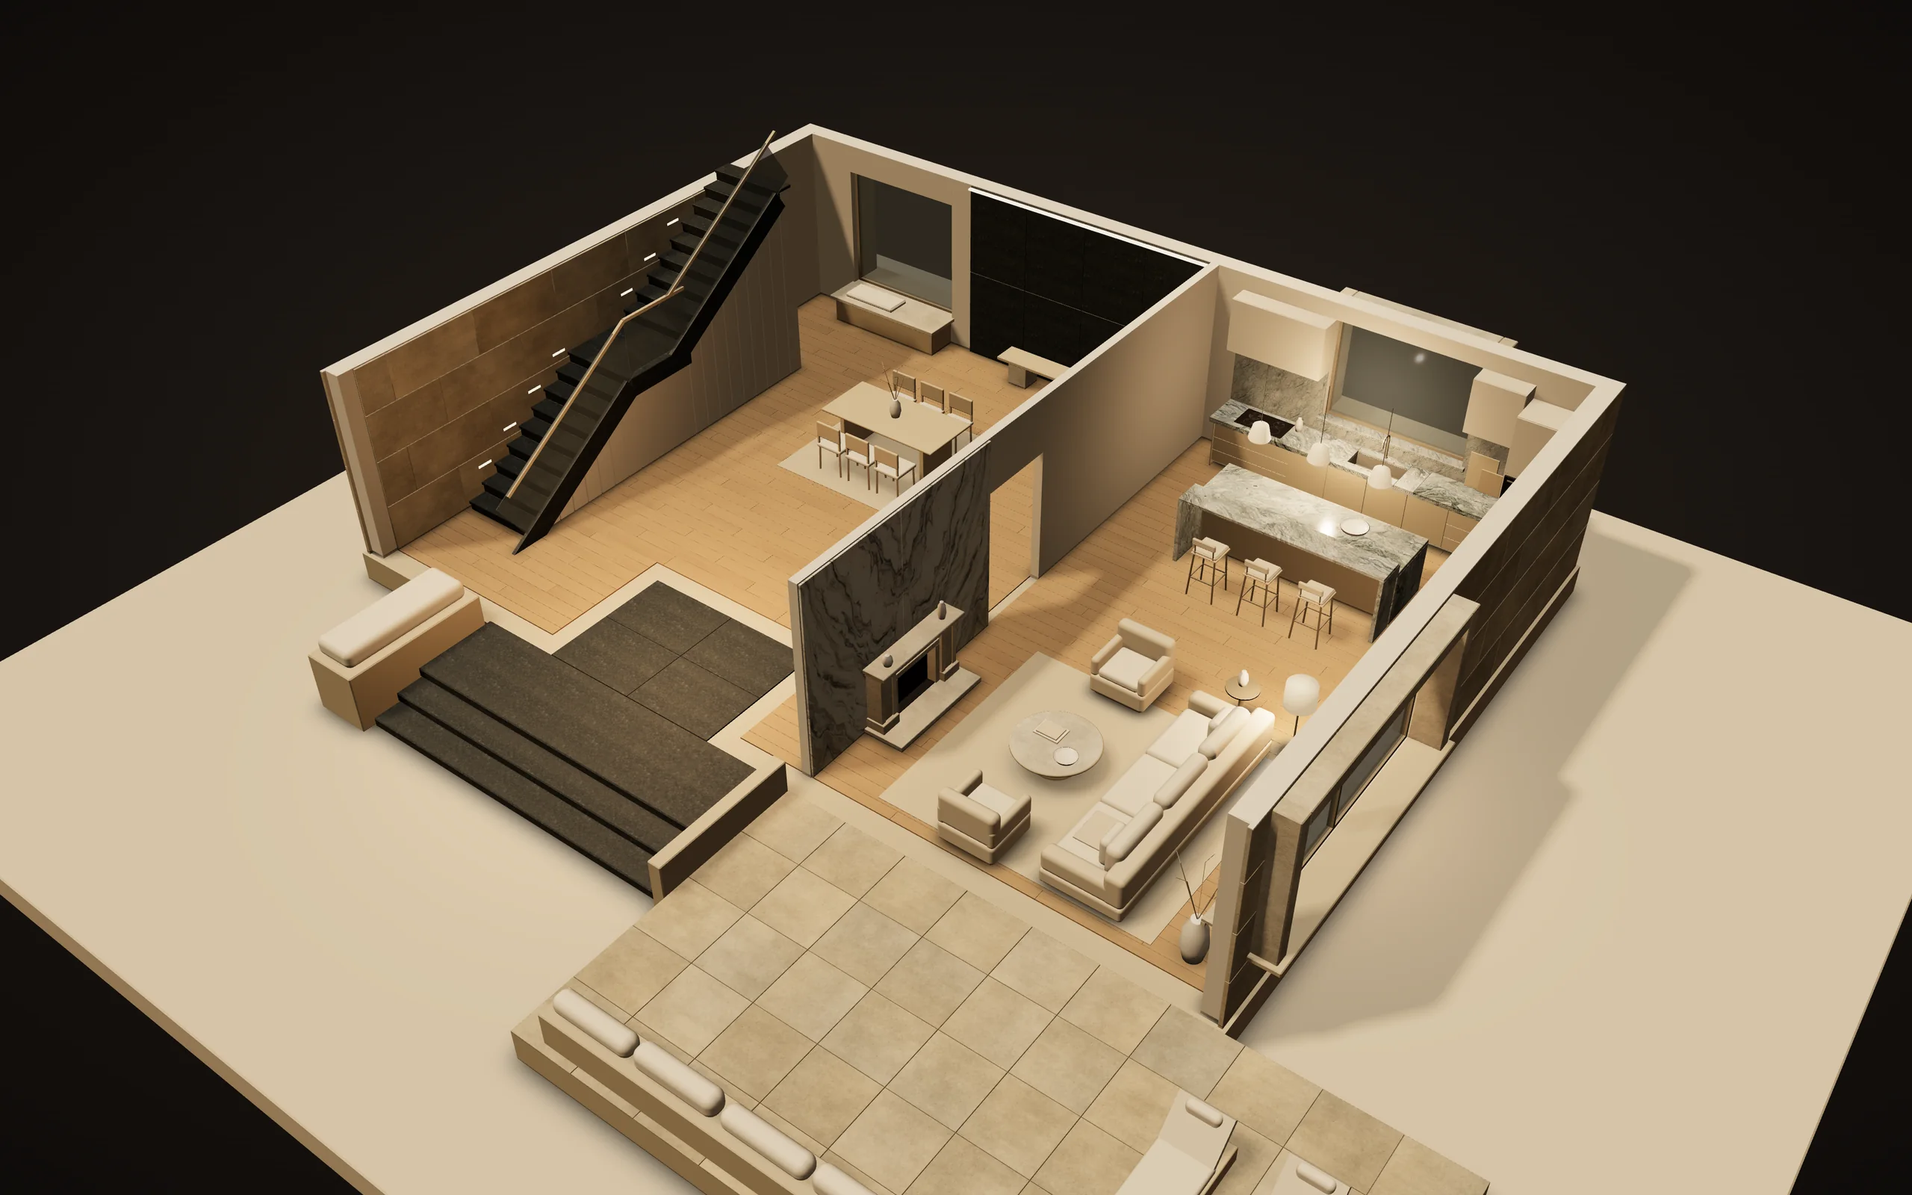
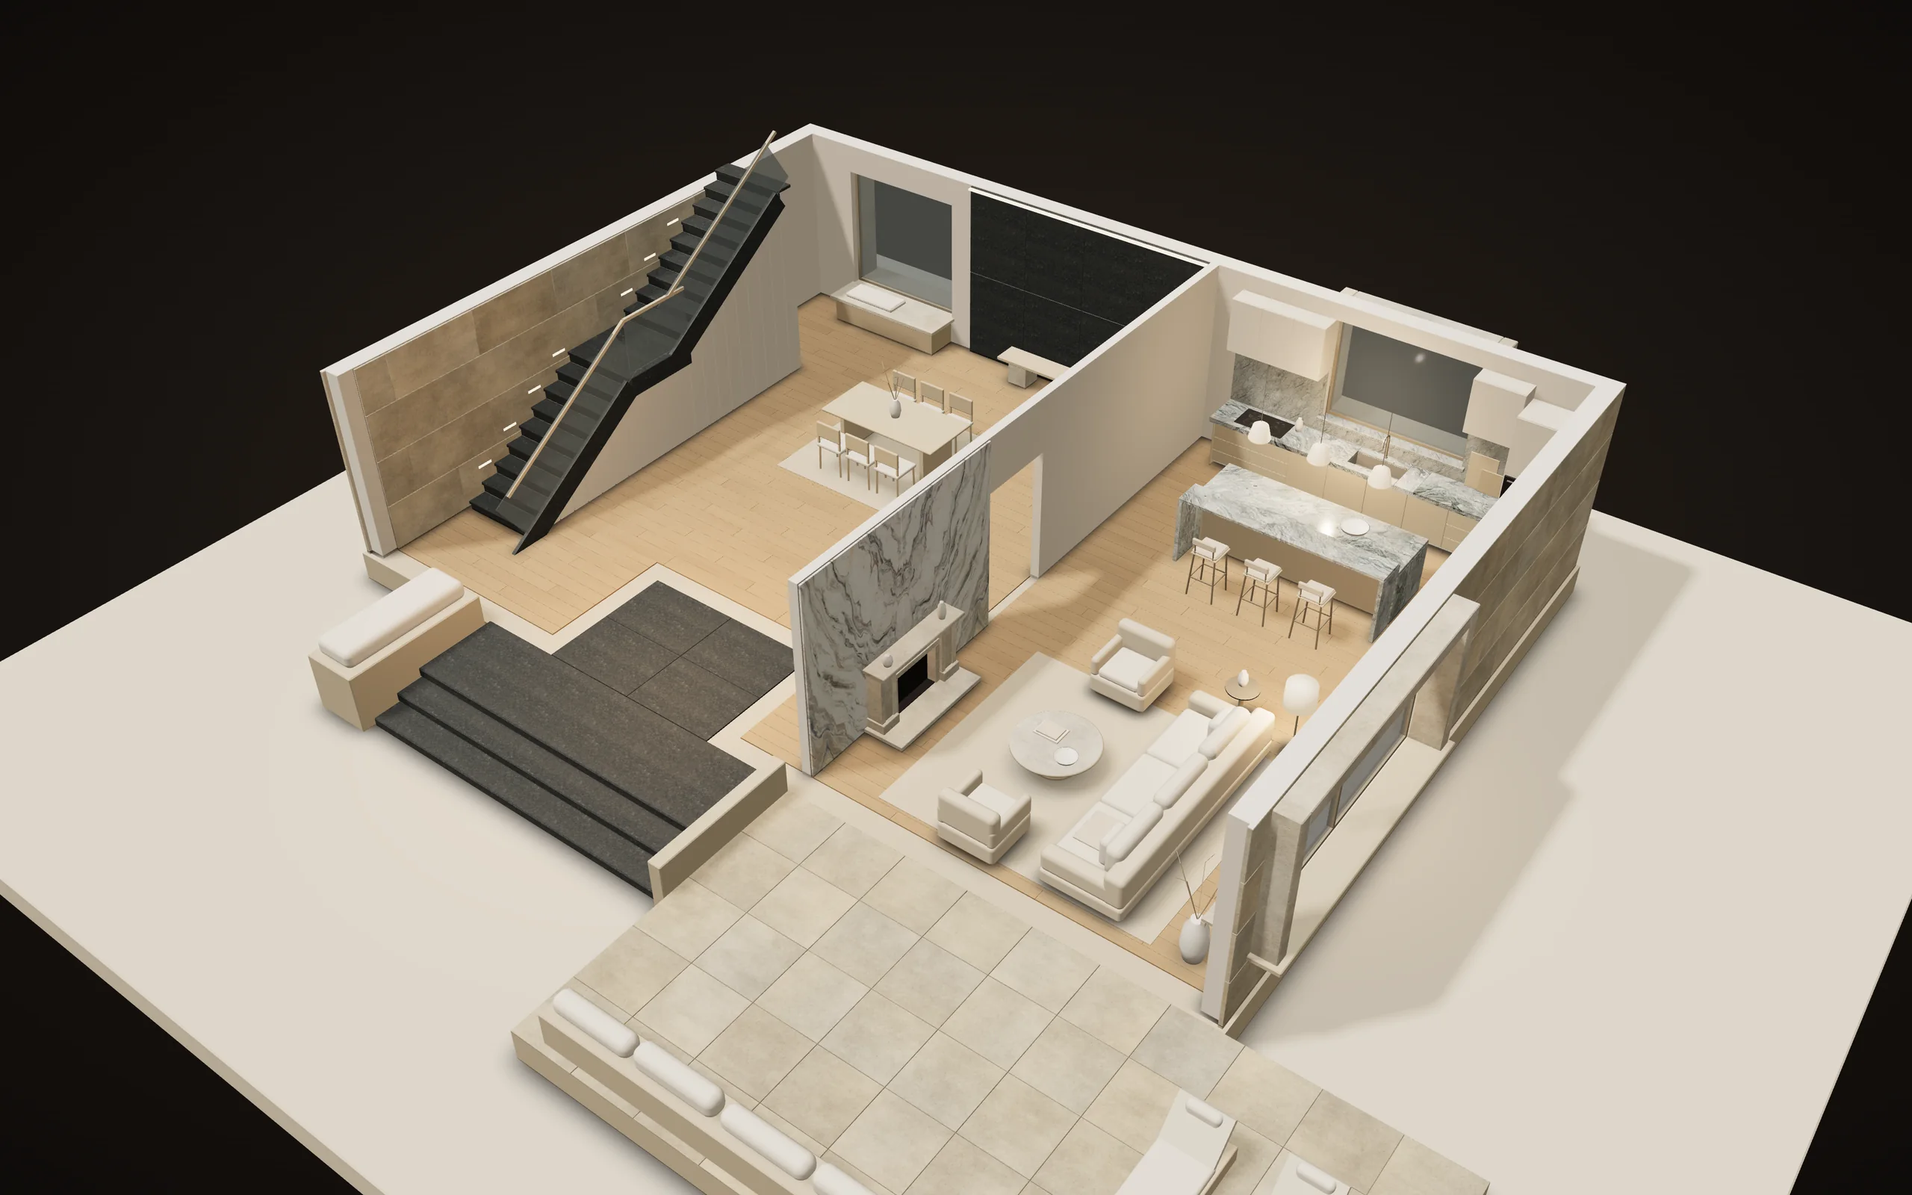
Showroom: two lights to choose, «Утро» (the default) and «Вечер»; the home photo in the morning light (the owner, 2026-11-08)
On a phone the stone «плохо раскрывается» under the orange evening light
and the dark reflections. «Утро»: a near-white key and fill, and the
polished stones reflect a light studio (the backdrop stays the dark room),
so every stone shows its own colour. «Вечер»: the warm light first chosen,
the lamps brighter. A switch in the showroom's header (on a phone and on
narrower screens the two marks alone; on a phone under the header), the
choice remembered in this browser. The home and menu photo re-rendered in
the morning light.

diff --git a/js/showroom/showroom-scene.js b/js/showroom/showroom-scene.js
@@ -4,24 +4,37 @@
 // HouseModel parts (batched: one mesh per group + material + object, see
 // showroom-geometry.js), lays real stone photographs on the pieces cut
 // from them (stone-photos.js), and lights the house as an architectural
-// model photographed in the evening (the owner's choice, 2026-11-08,
-// «Б. Вечер»): a warm dark room round the model, a large soft light above,
-// a warm key with soft shadows, the rooms' own lamps, soft contact shadows
-// on the floors. It exposes what the app needs: hide/show cut-away groups,
+// model in a warm dark room (2026-11-08): a large soft light above, a key
+// with soft shadows, the rooms' own warm lamps, soft contact shadows on the
+// floors. Two lights to choose from (the owner, the same night): «Утро»,
+// the default -- a near-white key and a light studio in the polished stones'
+// reflections, so every stone shows its own colour (under the orange light
+// it «плохо раскрывается» on a phone) -- and «Вечер», the warm light first
+// chosen, with the lamps brighter. setLook(name) switches between them. It exposes what the app needs: hide/show cut-away groups,
 // highlight an object, test whether a marker is hidden behind something,
 // render.
 import * as THREE from '../../vendor/three/three.module.js';
 import { createMaterials, roleTint } from './showroom-materials.js';
 import { hash3, createBatch, pushBox, pushSlab, pushCylinder, pushBeam, toGeometry, pushRoundedBox, pushLathe } from './showroom-geometry.js';
 
-// The room round the model, and its light.
-const LOOK = {
-  bg: { inner: '#2a221c', outer: '#0b0907' },                                   // backdrop: lighter behind the model
-  env: { top: [1.5, 1.3, 1.05], mid: '#4a3f34', low: '#100d0b', fill: 0.7 },   // reflections and fill: a softbox overhead
-  hemi: ['#f3e3ca', '#2a221b', 0.22],
-  key: { color: '#ffdcb0', intensity: 1.55, position: [-8, 22, 10], soft: 9 },
-  exposure: 1.0,
-  lamps: 2.4,                                                                   // the rooms' lamps, brighter than by day
+// The room round the model (the same in both lights), and the two lights.
+const BG = { inner: '#2a221c', outer: '#0b0907' };                              // backdrop: lighter behind the model
+const KEY = { position: [-8, 22, 10], soft: 9 };
+export const LOOKS = {
+  morning: {
+    env: { top: [1.6, 1.56, 1.5], mid: '#9a948b', low: '#2b2724', fill: 0.8 }, // reflections and fill: a softbox overhead, light studio walls
+    hemi: ['#f4f0ea', '#2a2622', 0.12],
+    key: { color: '#fff4ea', intensity: 1.7 },
+    exposure: 1.04,
+    lamps: 1.7,                                                                 // the rooms' lamps
+  },
+  evening: {
+    env: { top: [1.5, 1.3, 1.05], mid: '#4a3f34', low: '#100d0b', fill: 0.7 },  // a warm, dark studio
+    hemi: ['#f3e3ca', '#2a221b', 0.22],
+    key: { color: '#ffdcb0', intensity: 1.55 },
+    exposure: 1.0,
+    lamps: 2.4,                                                                 // brighter than in the morning
+  },
 };
 const WHITE = [1, 1, 1];
 
@@ -31,8 +44,8 @@ function lookBackground() {
   c.width = c.height = 512;
   const g = c.getContext('2d');
   const grad = g.createRadialGradient(256, 230, 20, 256, 256, 400);
-  grad.addColorStop(0, LOOK.bg.inner);
-  grad.addColorStop(1, LOOK.bg.outer);
+  grad.addColorStop(0, BG.inner);
+  grad.addColorStop(1, BG.outer);
   g.fillStyle = grad;
   g.fillRect(0, 0, 512, 512);
   const t = new THREE.CanvasTexture(c);
@@ -42,7 +55,7 @@ function lookBackground() {
 
 // A studio for reflections and fill: a large soft light overhead, softer
 // walls, a dark floor -- no sky, no sun disc.
-function buildEnvironment(renderer) {
+function buildEnvironment(renderer, LOOK) {
   const pmrem = new THREE.PMREMGenerator(renderer);
   const env = new THREE.Scene();
   const c = document.createElement('canvas');
@@ -81,7 +94,9 @@ function uvOffset(x, y, z) {
   return [hash3(y - 5.3, z, x) * 4, hash3(x + 2.9, y, z - 7.1) * 4];
 }
 
-export function createShowroomScene(canvas, { House, Photos, zones = [], onChange }) {
+export function createShowroomScene(canvas, { House, Photos, zones = [], look = 'morning', onChange }) {
+  let current = LOOKS[look] ? look : 'morning';
+  const LOOK = LOOKS[current];
   const renderer = new THREE.WebGLRenderer({ canvas, antialias: true, powerPreference: 'high-performance' });
   renderer.setPixelRatio(Math.min(window.devicePixelRatio || 1, 1.75));
   renderer.toneMapping = THREE.ACESFilmicToneMapping;
@@ -96,32 +111,53 @@ export function createShowroomScene(canvas, { House, Photos, zones = [], onChang
   const scene = new THREE.Scene();
   const background = lookBackground();
   scene.background = background;
-  scene.environment = buildEnvironment(renderer);
+  // Each light's studio is built once, when it is first needed.
+  const environments = new Map([[current, buildEnvironment(renderer, LOOK)]]);
+  scene.environment = environments.get(current);
 
   const materials = createMaterials({
     Photos, anisotropy: renderer.capabilities.getMaxAnisotropy(), onChange,
     upload: texture => renderer.initTexture(texture),
   });
 
-  // Light: a soft fill, a warm key high over the model's front left (short,
-  // soft shadows), and the rooms' own warm lamps.
-  scene.add(new THREE.HemisphereLight(...LOOK.hemi));
+  // Light: a soft fill, a near-white key high over the model's front left
+  // (short, soft shadows; every stone in its own colour), and the rooms'
+  // own warm lamps.
+  const hemi = new THREE.HemisphereLight(...LOOK.hemi);
+  scene.add(hemi);
   const sun = new THREE.DirectionalLight(LOOK.key.color, LOOK.key.intensity);
-  sun.position.set(...LOOK.key.position);
+  sun.position.set(...KEY.position);
   sun.target.position.set(0, 1, 0);
   sun.castShadow = true;
   sun.shadow.mapSize.set(2048, 2048);
   Object.assign(sun.shadow.camera, { left: -17, right: 17, top: 16, bottom: -16, near: 1, far: 70 });
   sun.shadow.bias = -0.0002;
   sun.shadow.normalBias = 0.03;
-  sun.shadow.radius = LOOK.key.soft;
+  sun.shadow.radius = KEY.soft;
   sun.shadow.blurSamples = 16;
   scene.add(sun, sun.target);
-  (House.LIGHTS || []).forEach(l => {
+  const lamps = (House.LIGHTS || []).map(l => {
     const light = new THREE.PointLight(l.color, l.intensity * LOOK.lamps, l.distance, 2);
     light.position.set(...l.position);
+    light.userData.base = l.intensity;
     scene.add(light);
+    return light;
   });
+
+  // The other light: colours and strengths only, so no shader changes and
+  // the shadows stay as they are.
+  function setLook(name) {
+    if (!LOOKS[name] || name === current) return;
+    current = name;
+    const L = LOOKS[name];
+    if (!environments.has(name)) environments.set(name, buildEnvironment(renderer, L));
+    scene.environment = environments.get(name);
+    hemi.color.set(L.hemi[0]); hemi.groundColor.set(L.hemi[1]); hemi.intensity = L.hemi[2];
+    sun.color.set(L.key.color); sun.intensity = L.key.intensity;
+    lamps.forEach(light => { light.intensity = light.userData.base * L.lamps; });
+    renderer.toneMappingExposure = L.exposure;
+    onChange();
+  }
 
   // ---- house -----------------------------------------------------------------
   const groups = new Map();
@@ -455,13 +491,13 @@ export function createShowroomScene(canvas, { House, Photos, zones = [], onChang
     scene.traverse(o => { if (o.geometry) o.geometry.dispose(); });
     materials.dispose();
     background.dispose();
-    scene.environment.dispose();
+    environments.forEach(t => t.dispose());
     renderer.dispose();
   }
 
   refreshOccluders();
   return {
-    renderer, scene, ready, setHiddenGroups, setHighlight, isOccluded, resize, render, dispose,
+    renderer, scene, ready, setHiddenGroups, setHighlight, isOccluded, resize, render, dispose, setLook, look: () => current,
     loadPhotos: materials.loadPhotos, groupNames: () => Array.from(groups.keys()),
   };
 }

diff --git a/css/showroom.css b/css/showroom.css
@@ -93,12 +93,29 @@ button { font: inherit; color: inherit; }
 
 .sr-btn {
   display: inline-flex; align-items: center; justify-content: center; min-height: 40px; padding: 0 16px;
-  border-radius: 999px; font-size: var(--sr-fs-ui); font-weight: 600; text-decoration: none; cursor: pointer;
+  border-radius: 999px; font-size: var(--sr-fs-ui); font-weight: 600; text-decoration: none; cursor: pointer; white-space: nowrap;
   transition: background-color 0.2s, border-color 0.2s, transform 0.16s var(--ease-out);
 }
 .sr-btn-ghost { background: rgba(30, 26, 22, 0.55); border: 1px solid var(--sr-line-strong); color: var(--sr-ink); }
 .sr-btn-ghost[aria-expanded="true"] { background: rgba(30, 26, 22, 0.85); border-color: rgba(241, 236, 228, 0.4); }
 @media (hover: hover) { .sr-btn-ghost:hover { background: rgba(30, 26, 22, 0.85); border-color: rgba(241, 236, 228, 0.4); } }
+/* «Утро | Вечер»: the light the house is shown in (2026-11-08, the owner); on a phone, the two marks alone, under the header. */
+.sr-light { display: inline-flex; align-items: center; gap: 2px; padding: 3px; min-height: 40px; box-sizing: border-box; border-radius: 999px; border: 1px solid var(--sr-line-strong); }
+.sr-light-btn {
+  display: inline-flex; align-items: center; gap: 6px; height: 32px; padding: 0 12px; border: 0; border-radius: 999px;
+  background: transparent; color: var(--sr-muted); font: inherit; font-size: var(--sr-fs-ui); font-weight: 600; cursor: pointer;
+  transition: background-color 0.2s, color 0.2s, transform 0.16s var(--ease-out);
+}
+.sr-light-btn svg { flex: none; width: 15px; height: 15px; fill: none; stroke: currentColor; stroke-width: 1.7; stroke-linecap: round; stroke-linejoin: round; }
+@media (hover: hover) { .sr-light-btn:hover { color: var(--sr-ink); } }
+.sr-light-btn[aria-pressed="true"] { background: var(--sr-ink); color: #1e1a16; }
+.sr-light-btn:active { transform: scale(0.96); }
+/* Narrower screens: the two marks alone (the header keeps one line). */
+@media (max-width: 1099px) {
+  .sr-light-btn { width: 40px; padding: 0; justify-content: center; }
+  .sr-light-label { display: none; }
+}
+@media (min-width: 768px) and (max-width: 899px) { .sr-top-title { display: none; } }
 /* «Связаться»: the phone mark and the word; on a phone, the mark alone. */
 .sr-btn-contact { gap: 8px; }
 .sr-btn-contact svg, .sr-share svg, .sr-contact-icon svg { flex: none; fill: none; stroke: currentColor; stroke-width: 1.6; stroke-linecap: round; stroke-linejoin: round; }
@@ -310,24 +327,24 @@ body.is-interior .sr-caption { transform: translateY(52px); }   /* under «На 
    a rim of light along the top. In Chromium the glass also bends the scene near its edges
    (js/header.js mountGlass puts .glass-bend on <html>); where the visitor asks for less
    transparency, or the browser cannot blur, the panels are solid as before. */
-.sr-caption, .sr-zones, .sr-hint, .sr-card, .sr-panel, .sr-back, .sr-btn-ghost {
+.sr-caption, .sr-zones, .sr-hint, .sr-card, .sr-panel, .sr-back, .sr-btn-ghost, .sr-light {
   background: var(--sr-glass-shine), var(--sr-glass);
   -webkit-backdrop-filter: var(--sr-glass-frost); backdrop-filter: var(--sr-glass-frost);
 }
 .sr-caption, .sr-zones, .sr-card, .sr-panel, .sr-back { box-shadow: var(--sr-glass-rim), var(--sr-shadow); }
-.sr-hint, .sr-btn-ghost { box-shadow: var(--sr-glass-rim); }
+.sr-hint, .sr-btn-ghost, .sr-light { box-shadow: var(--sr-glass-rim); }
 @media (hover: hover) { .sr-btn-ghost:hover { background: var(--sr-glass-shine), var(--sr-panel); } }
 .sr-btn-ghost[aria-expanded="true"] { background: var(--sr-glass-shine), var(--sr-panel); }
 .glass-bend .sr-caption, .glass-bend .sr-zones, .glass-bend .sr-card, .glass-bend .sr-panel,
-.glass-bend .sr-back, .glass-bend .sr-btn-ghost { backdrop-filter: var(--sr-glass-bend); }
+.glass-bend .sr-back, .glass-bend .sr-btn-ghost, .glass-bend .sr-light { backdrop-filter: var(--sr-glass-bend); }
 @media (prefers-reduced-transparency: reduce) {
-  .sr-caption, .sr-zones, .sr-hint, .sr-card, .sr-panel, .sr-back, .sr-btn-ghost,
-  .glass-bend .sr-caption, .glass-bend .sr-zones, .glass-bend .sr-card, .glass-bend .sr-panel, .glass-bend .sr-back, .glass-bend .sr-btn-ghost {
+  .sr-caption, .sr-zones, .sr-hint, .sr-card, .sr-panel, .sr-back, .sr-btn-ghost, .sr-light,
+  .glass-bend .sr-caption, .glass-bend .sr-zones, .glass-bend .sr-card, .glass-bend .sr-panel, .glass-bend .sr-back, .glass-bend .sr-btn-ghost, .glass-bend .sr-light {
     background: var(--sr-panel-solid); -webkit-backdrop-filter: none; backdrop-filter: none;
   }
 }
 @supports not ((-webkit-backdrop-filter: blur(1px)) or (backdrop-filter: blur(1px))) {
-  .sr-caption, .sr-zones, .sr-hint, .sr-card, .sr-panel, .sr-back, .sr-btn-ghost { background: var(--sr-panel); }
+  .sr-caption, .sr-zones, .sr-hint, .sr-card, .sr-panel, .sr-back, .sr-btn-ghost, .sr-light { background: var(--sr-panel); }
 }
 
 @media (max-width: 767px) {
@@ -337,6 +354,9 @@ body.is-interior .sr-caption { transform: translateY(52px); }   /* under «На 
   .sr-btn-contact { width: 40px; padding: 0; }
   .sr-btn-contact .sr-btn-label { display: none; }
   .sr-back { top: 64px; left: 16px; }
+  .sr-light { position: fixed; top: 64px; right: 16px; }
+  .sr-light-btn { width: 40px; height: 32px; padding: 0; justify-content: center; }
+  .sr-light-label { display: none; }
   .sr-caption, body.is-interior .sr-caption {
     left: 16px; right: 16px; width: auto; top: auto; bottom: calc(76px + var(--sr-safe-bottom)); transform: none;
     padding: 14px 16px; border-radius: 12px;

diff --git a/showroom.html b/showroom.html
@@ -10,7 +10,7 @@
 <meta name="description" content="Интерактивный дом из натурального камня: фасад, холл, гостиная, кухня, лестница, ванная и спальня. Выберите изделие и создайте своё.">
 <link rel="stylesheet" href="/sayanmramor-site/css/tokens.css?v=e0b292d7">
 <link rel="stylesheet" href="/sayanmramor-site/css/consent.css?v=fb629482">
-<link rel="stylesheet" href="/sayanmramor-site/css/showroom.css?v=eb2b4431">
+<link rel="stylesheet" href="/sayanmramor-site/css/showroom.css?v=d5337495">
 <!-- The 3D modules, fetched together with the page instead of one import level after another. -->
 <link rel="modulepreload" href="/sayanmramor-site/js/showroom/showroom-app.js">
 <link rel="modulepreload" href="/sayanmramor-site/vendor/three/three.module.js">
@@ -28,6 +28,10 @@
   <a class="sr-logo" href="/sayanmramor-site/index.html">Саянмрамор</a>
   <span class="sr-top-title">Шоурум</span>
   <div class="sr-top-actions">
+    <div class="sr-light" id="srLight" role="group" aria-label="Освещение">
+      <button type="button" class="sr-light-btn" data-look="morning" aria-pressed="true" aria-label="Утро"><svg viewBox="0 0 24 24" aria-hidden="true" focusable="false"><circle cx="12" cy="12" r="4"/><path d="M12 2.5v2M12 19.5v2M2.5 12h2M19.5 12h2M5.3 5.3l1.4 1.4M17.3 17.3l1.4 1.4M5.3 18.7l1.4-1.4M17.3 6.7l1.4-1.4"/></svg><span class="sr-light-label">Утро</span></button>
+      <button type="button" class="sr-light-btn" data-look="evening" aria-pressed="false" aria-label="Вечер"><svg viewBox="0 0 24 24" aria-hidden="true" focusable="false"><path d="M20 14.5A8 8 0 0 1 9.5 4a8 8 0 1 0 10.5 10.5z"/></svg><span class="sr-light-label">Вечер</span></button>
+    </div>
     <button type="button" class="sr-btn sr-btn-ghost" id="srPanelBtn" aria-controls="srPanel" aria-expanded="false">Все изделия</button>
     <button type="button" class="sr-btn sr-btn-ghost sr-btn-contact" id="srContactBtn" aria-controls="srContact" aria-expanded="false" aria-label="Связаться"><svg viewBox="0 0 24 24" aria-hidden="true" focusable="false"><path d="M21 16.4v2.8a1.9 1.9 0 0 1-2 1.9 18.6 18.6 0 0 1-8.1-2.9 18.3 18.3 0 0 1-5.6-5.6A18.6 18.6 0 0 1 2.4 4.5a1.9 1.9 0 0 1 1.9-2h2.8a1.9 1.9 0 0 1 1.9 1.6c.1.9.4 1.8.7 2.6a1.9 1.9 0 0 1-.4 2L8.1 9.9a15 15 0 0 0 5.6 5.6l1.2-1.2a1.9 1.9 0 0 1 2-.4c.8.3 1.7.6 2.6.7a1.9 1.9 0 0 1 1.6 1.9z"/></svg><span class="sr-btn-label">Связаться</span></button>
     <a class="sr-btn sr-btn-ghost sr-hide-compact" href="/sayanmramor-calculator/sayanmramor-calculator.html">Создать изделие</a>

diff --git a/js/showroom/showroom-app.js b/js/showroom/showroom-app.js
@@ -32,8 +32,21 @@ function start() {
   const stage = doc.getElementById('srStage');
   const reducedMotion = window.matchMedia('(prefers-reduced-motion: reduce)').matches;
 
+  // «Утро» or «Вечер»: the light the visitor chose last time (morning by default).
+  const LIGHT_KEY = 'sayan-showroom-light';
+  let look = 'morning';
+  try { if (localStorage.getItem(LIGHT_KEY) === 'evening') look = 'evening'; } catch (e) { /* no storage */ }
+
   // A stone photograph arriving re-renders the view (the scene renders on demand).
-  const view3d = createShowroomScene(canvas, { House, Photos, zones: Data.ZONES, onChange: () => { occlusionDue = true; requestRender(); } });
+  const view3d = createShowroomScene(canvas, { House, Photos, zones: Data.ZONES, look, onChange: () => { occlusionDue = true; requestRender(); } });
+  const lightButtons = Array.from(doc.querySelectorAll('#srLight [data-look]'));
+  const showLook = name => lightButtons.forEach(b => b.setAttribute('aria-pressed', String(b.dataset.look === name)));
+  showLook(look);
+  lightButtons.forEach(b => b.addEventListener('click', () => {
+    view3d.setLook(b.dataset.look);
+    showLook(b.dataset.look);
+    try { localStorage.setItem(LIGHT_KEY, b.dataset.look); } catch (e) { /* this visit only */ }
+  }));
   const rig = createCameraRig(canvas, { reducedMotion });
   let state = State.initialStateFromLocation(location.search, location.hash);
   let size = { width: 1, height: 1 };

diff --git a/tests/showroom.test.js b/tests/showroom.test.js
@@ -828,3 +828,16 @@ test('the fireplace replaced the low stone console, and the sofa faces it', () =
   assert.ok(b.min[0] > Math.max(...fire.map(x => x.max[0])), 'across the room');
   assert.ok(Math.abs((b.min[2] + b.max[2]) / 2 - zc) < 0.15, 'facing the fireplace');
 });
+
+test('«Утро | Вечер»: two lights to choose from in the showroom\'s header, morning first (2026-11-08)', () => {
+  const html = fs.readFileSync(path.join(__dirname, '..', 'showroom.html'), 'utf8');
+  const group = html.slice(html.indexOf('<div class="sr-light"'), html.indexOf('</div>', html.indexOf('<div class="sr-light"')));
+  assert.match(group, /role="group" aria-label="Освещение"/);
+  const buttons = [...group.matchAll(/<button type="button" class="sr-light-btn" data-look="(\w+)" aria-pressed="(true|false)" aria-label="([^"]+)">/g)].map(m => m.slice(1));
+  assert.deepEqual(buttons, [['morning', 'true', 'Утро'], ['evening', 'false', 'Вечер']]);
+  const scene = fs.readFileSync(path.join(__dirname, '..', 'js', 'showroom', 'showroom-scene.js'), 'utf8');
+  assert.match(scene, /export const LOOKS = \{\s*morning: \{/);
+  assert.match(scene, /look = 'morning'/, 'morning by default');
+  const app = fs.readFileSync(path.join(__dirname, '..', 'js', 'showroom', 'showroom-app.js'), 'utf8');
+  assert.match(app, /localStorage\.getItem\(LIGHT_KEY\) === 'evening'/, 'the last choice is remembered');
+});
